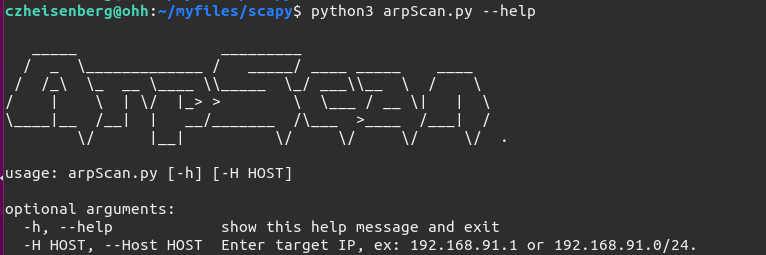
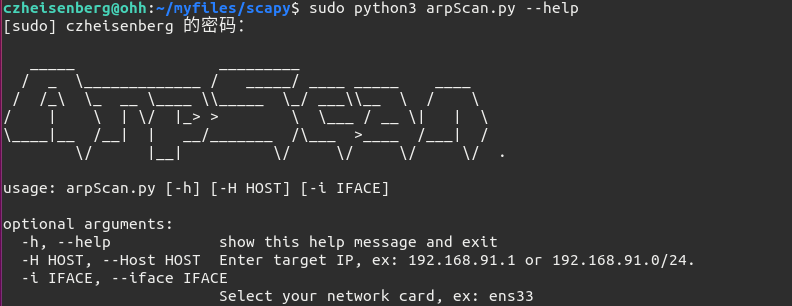
2022-1-19: 13:25

Changed region(s): [[0.0, 0.0, 0.9008, 1.0], [0.6005, 0.5216, 0.6305, 0.5765], [0.6305, 0.4667, 0.6606, 0.4941]]

diff --git a/Scan/scapy/arpScan.py b/Scan/scapy/arpScan.py
@@ -8,7 +8,7 @@ ip_mac_list = []
 
 def arpSingle(host):
     packet = Ether(dst="ff:ff:ff:ff:ff:ff")/ARP(pdst=host, hwdst="ff:ff:ff:ff:ff:ff")
-    ans,unans = srp(packet, timeout=1, iface="ens33",verbose=0)
+    ans,unans = srp(packet, timeout=1, verbose=0)
     #print(ans[0])
     for send,rcv in ans:
         ip_mac = rcv.sprintf("%ARP.psrc% --- %ARP.hwsrc%")

diff --git a/Scan/scapy/README.md b/Scan/scapy/README.md
@@ -19,13 +19,13 @@ python3 ping.py -H 192.168.91.0/24
 - arpScan.py
 
 ```shell
-python3 arpScan.py --help
+sudo python3 arpScan.py --help
 ```
 
 ![](./img/arpscan1.png)
 
 ```shell
-sudo python3 arpScan.py -H 192.168.91.0/24
+sudo python3 arpScan.py -H 192.168.91.0/24 -i ens33
 ```
 
 ![](./img/arpscan2.png)
